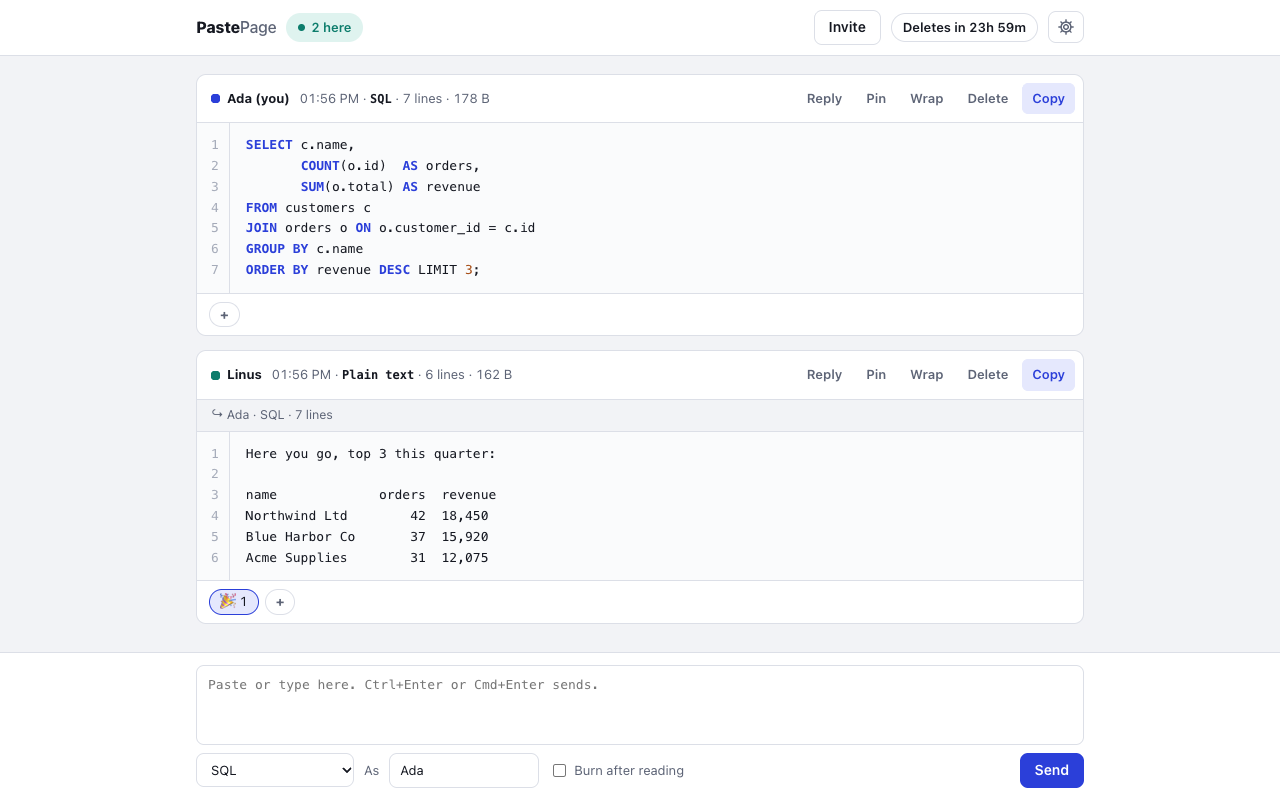
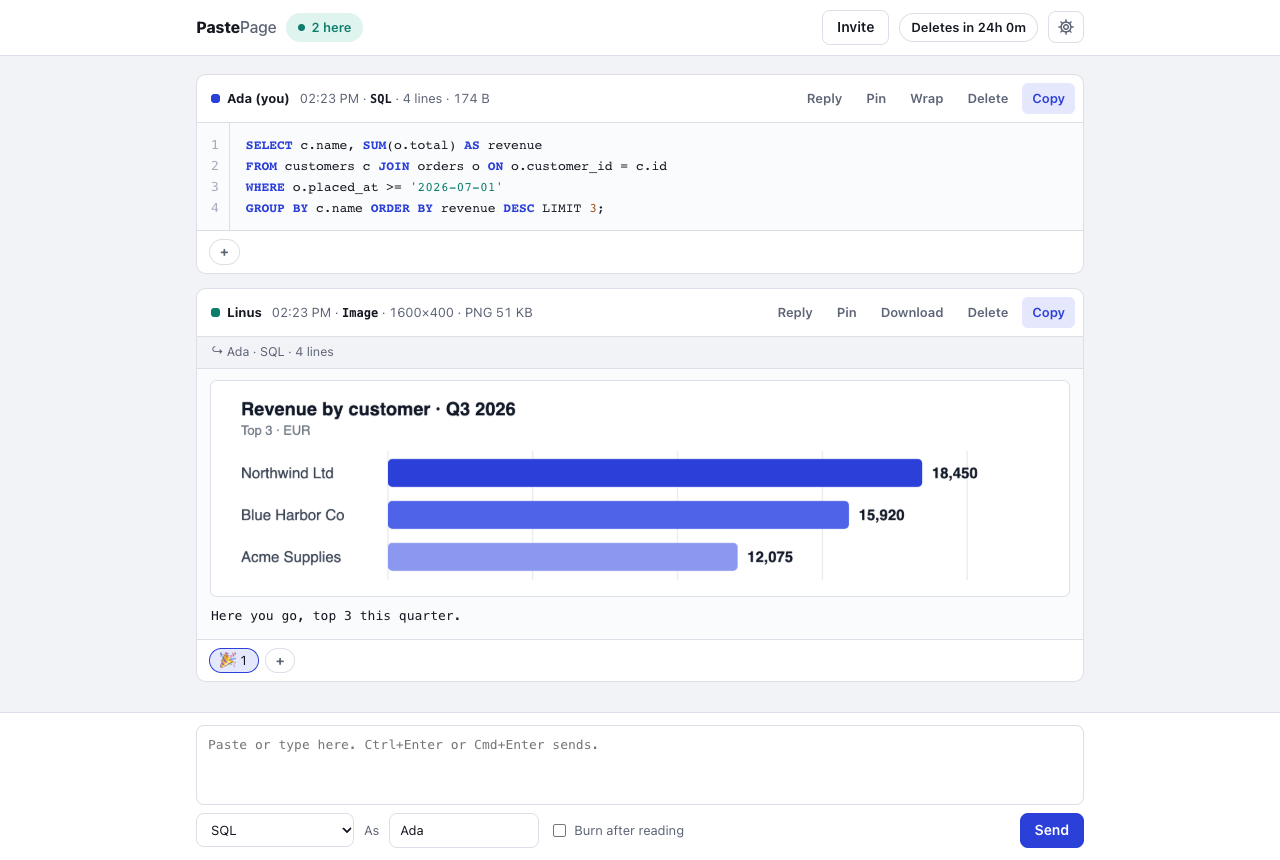
README: a demo GIF of the new flow, links to the demo, website and npm; a new screenshot
docs/screenshot.png stays (with a new picture): the README published to npm with
0.2.0 still shows it.

diff --git a/README.md b/README.md
@@ -1,10 +1,12 @@
 # PastePage
 
-Paste text back and forth between two (or a few) people, live. What you paste arrives exactly as pasted, including Windows line endings, and it is encrypted in your browser before it leaves your computer.
+Paste text and screenshots back and forth between two (or a few) people, live. What you paste arrives exactly as pasted, including Windows line endings, and it is encrypted in your browser before it leaves your computer.
 
 PastePage is a small self-hosted web app: you run it on your own server, next to your other websites. There are no accounts and no database. Sessions live only in the server's memory and disappear when everyone has left.
 
-![Two people in a PastePage session: Ada pasted an SQL query, Linus replied with the result, and Ada reacted with 🎉](docs/screenshot.png)
+![Demo: Ada opens PastePage, pastes an SQL query and sends it, which makes a session; Linus joins with the link and replies with a screenshot of a chart; Ada reacts with 🎉](docs/demo.gif)
+
+**Try it:** [live demo](https://demo.pastepage.sidebit.io) (sessions last at most an hour, notes up to 100 KB) · [website](https://pastepage.sidebit.io) · [npm](https://www.npmjs.com/package/pastepage)
 
 ## Features
 
